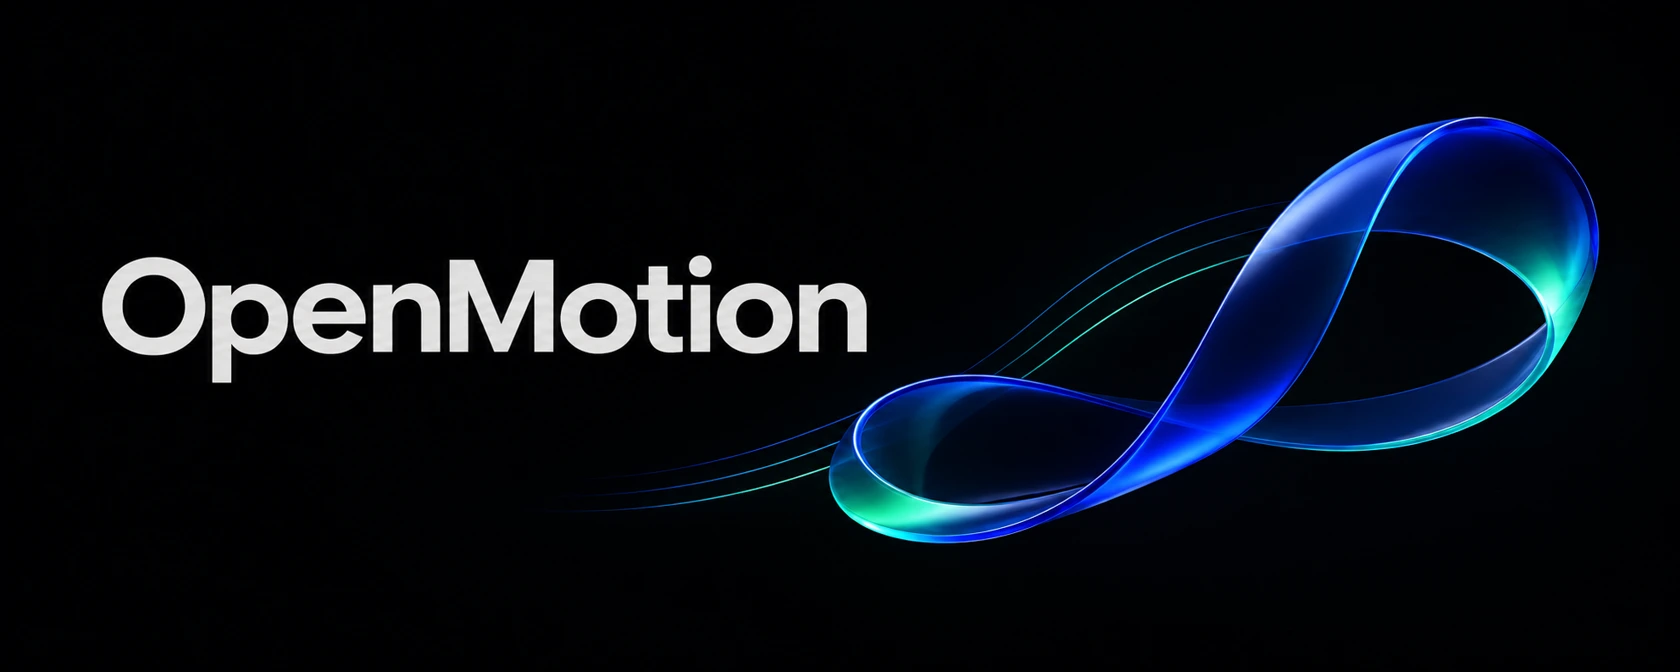
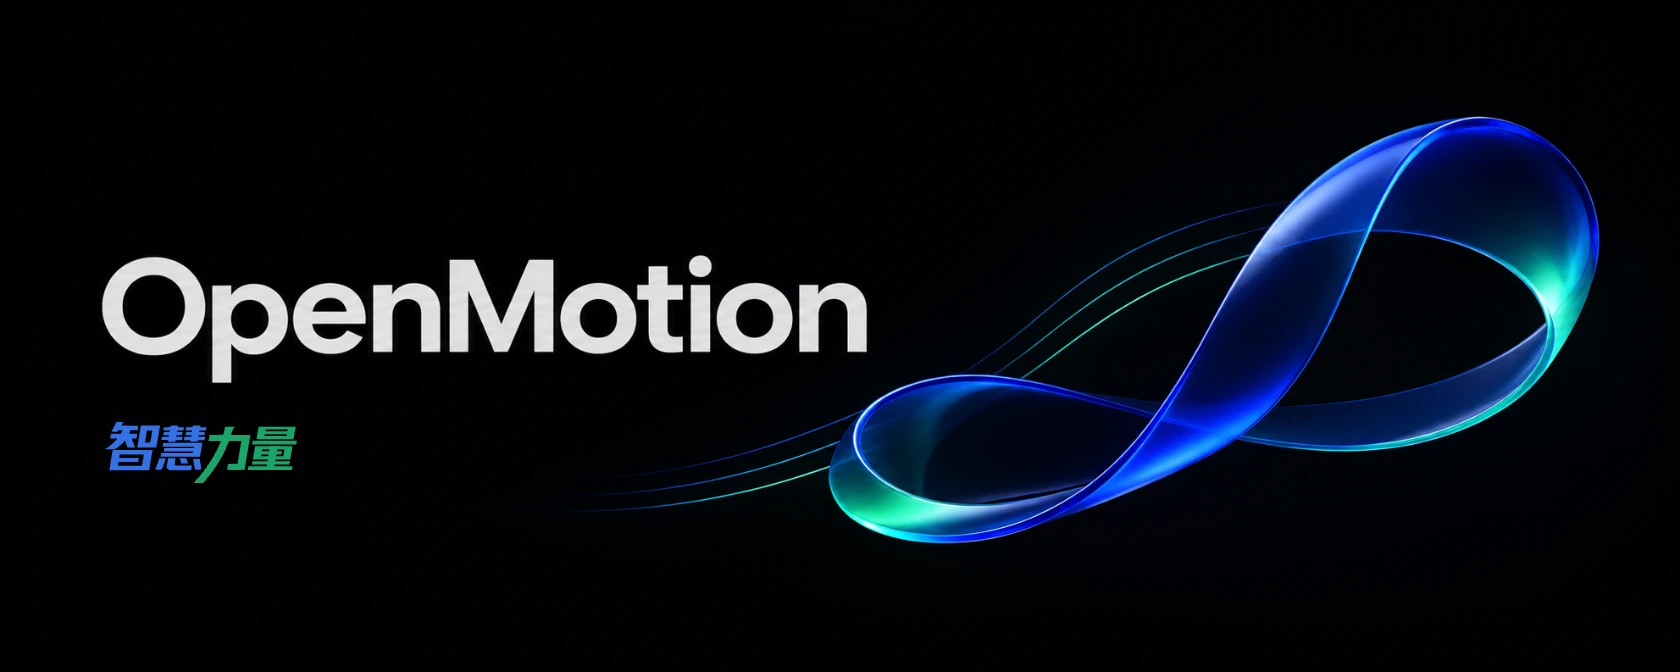
swipe send

Changed region(s): [[0.0619, 0.625, 0.1857, 0.7188]]

diff --git a/README.md b/README.md
@@ -1,5 +1,5 @@
 <h1 align="center">
-  <img src="./assets/cover.webp" alt="OpenMotion" width="1120">
+  <img src="./assets/cover.webp" alt="OpenMotion · 智慧力量" width="1120">
 </h1>
 
 <p align="center"><strong>开源 UI 微交互资料库</strong></p>
@@ -52,7 +52,7 @@
 
 ## 关于有谷
 
-<img src="./assets/yogu-logo.png" alt="智慧力量公司标志" width="212" height="58">
+<img src="./assets/yogu-logo.svg" alt="智慧力量公司标志" width="168">
 
 **杭州智慧力量科技有限公司（有谷 Yogu）**开发面向个人和团队的 AI 产品，涵盖知识工作与学习、内容与媒体生产，以及企业智能应用。OpenMotion 由有谷维护，用于分享 UI 微交互案例、源码与原理笔记。
 
